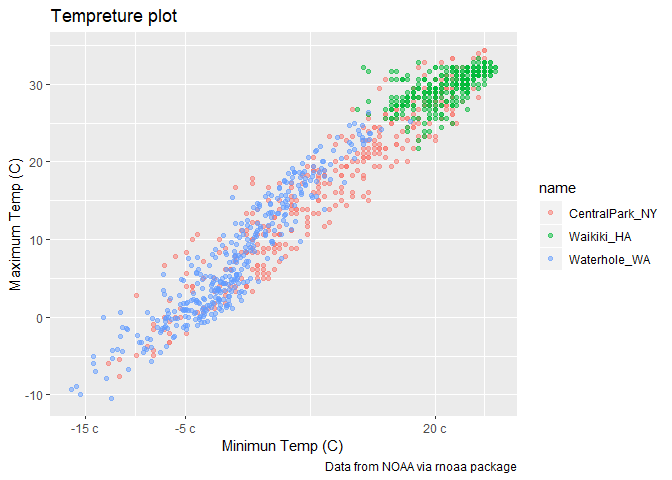
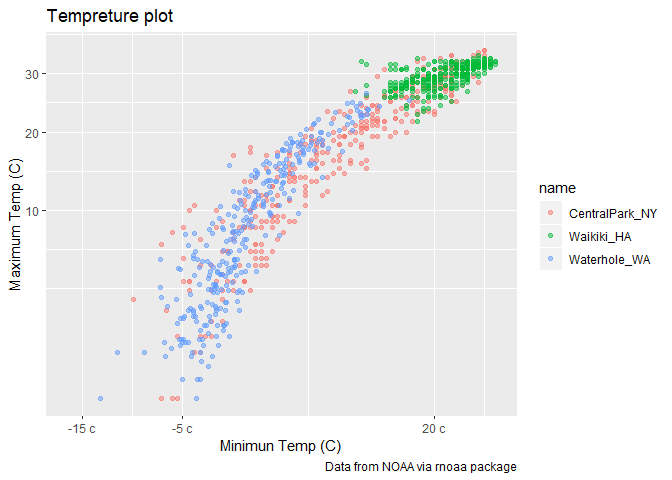
more commits on ggplot themes and stuff

diff --git a/viz_and_eda_2.md b/viz_and_eda_2.md
@@ -78,9 +78,77 @@ weather_df %>%
   scale_x_continuous(
     breaks = c(-15, -5, 20),
     labels = c("-15 c", "-5 c", "20 c")
+  ) +
+  scale_y_continuous(
+    trans = "sqrt"
+  )
+```
+
+    ## Warning in self$trans$transform(x): NaNs produced
+
+    ## Warning: Transformation introduced infinite values in continuous y-axis
+
+    ## Warning: Removed 90 rows containing missing values (geom_point).
+
+![](viz_and_eda_2_files/figure-gfm/unnamed-chunk-1-1.png)<!-- -->
+
+COLORS\!
+
+``` r
+weather_df %>% 
+  ggplot(aes(x = tmin, y = tmax, color = name)) +
+  geom_point(alpha = .5) +
+  labs(
+  title = "Tempreture plot",
+  x = "Minimun Temp (C)",
+  y = "Maximum Temp (C)",
+  caption = "Data from NOAA via rnoaa package"
+  ) +
+  scale_color_hue(
+    name = "Weatjer Station",
+    h = c(50, 250)
   )
 ```
 
     ## Warning: Removed 15 rows containing missing values (geom_point).
 
-![](viz_and_eda_2_files/figure-gfm/unnamed-chunk-1-1.png)<!-- -->
+![](viz_and_eda_2_files/figure-gfm/unnamed-chunk-2-1.png)<!-- -->
+
+viridis package\!
+
+``` r
+ggp_base = 
+  weather_df %>% 
+  ggplot(aes(x = tmin, y = tmax)) + 
+  geom_point(aes(color = name), alpha = .5) + 
+  labs(
+    title = "Temperature plot",
+    x = "Minimum daily temperature (C)",
+    y = "Maxiumum daily temperature (C)",
+    caption = "Data from the rnoaa package"
+  ) + 
+  viridis::scale_color_viridis(
+    name = "Location", 
+    discrete = TRUE
+  )
+
+ggp_base
+```
+
+    ## Warning: Removed 15 rows containing missing values (geom_point).
+
+![](viz_and_eda_2_files/figure-gfm/unnamed-chunk-3-1.png)<!-- -->
+
+## THEMES\!
+
+where you write theme\_minimal before theme\!\!\!
+
+``` r
+ggp_base +
+  theme_minimal() +
+  theme(legend.position = "bottom")
+```
+
+    ## Warning: Removed 15 rows containing missing values (geom_point).
+
+![](viz_and_eda_2_files/figure-gfm/unnamed-chunk-4-1.png)<!-- -->
